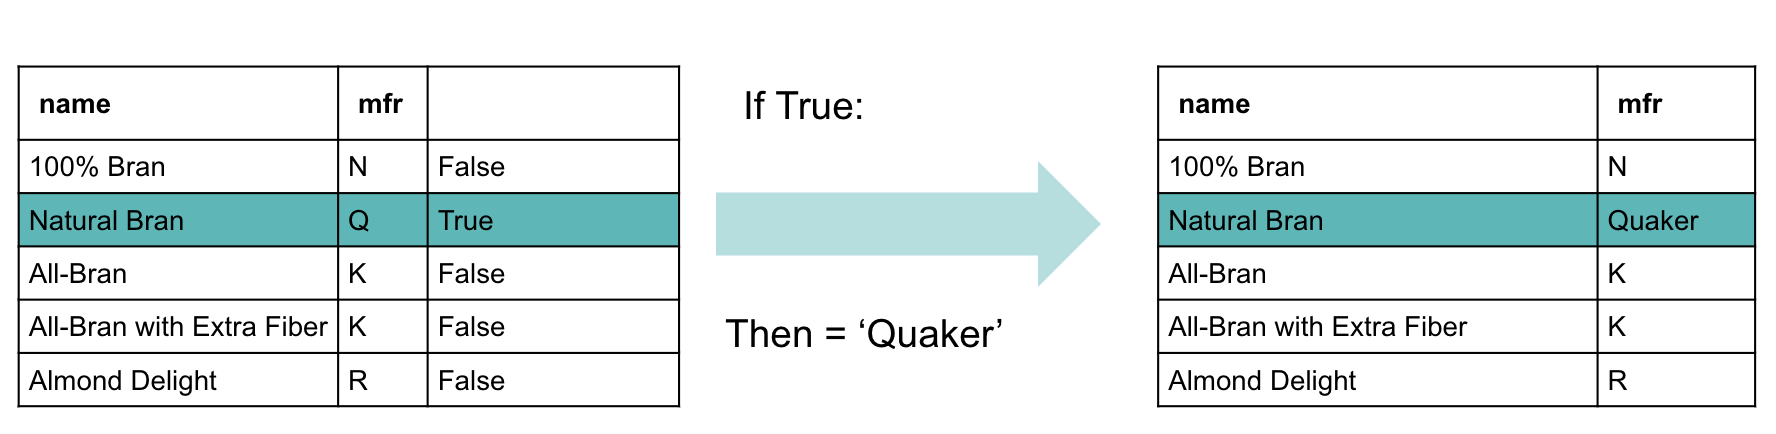
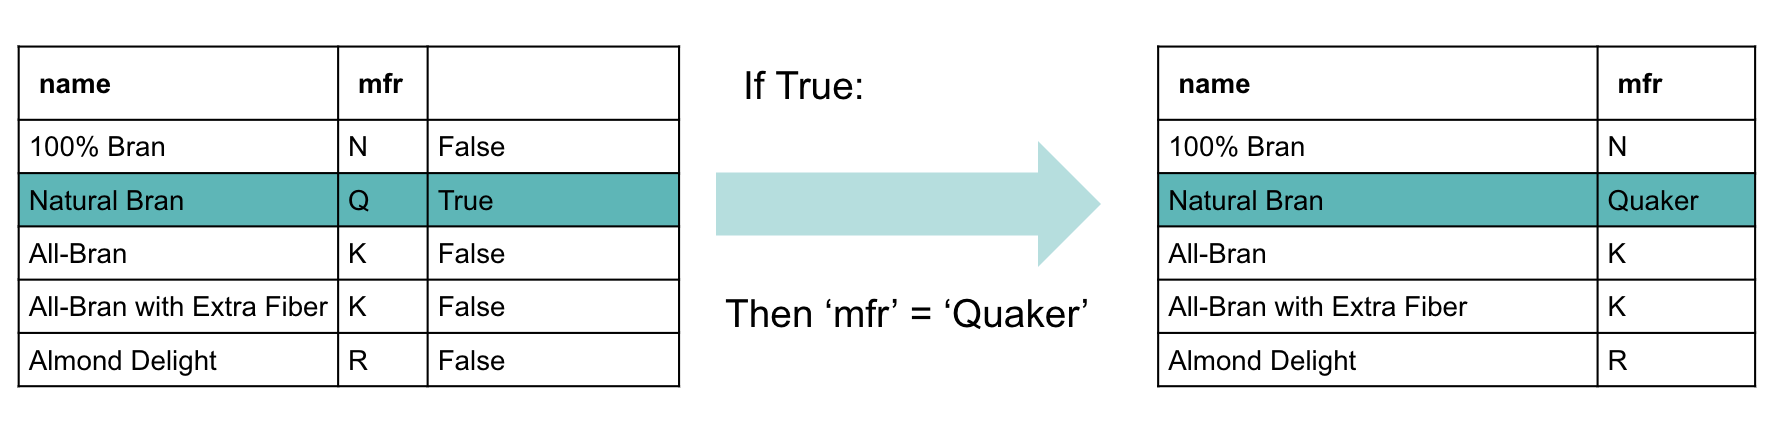
small edits

Changed region(s): [[0.0, 0.0911, 0.6194, 0.9416], [0.6503, 0.0911, 0.991, 0.9416]]

diff --git a/chapters/en/slides/module2/module2_19.md b/chapters/en/slides/module2/module2_19.md
@@ -22,8 +22,8 @@ Notes: Script here
 
 So far, we have accumulated many different skills to wrangle our data.
 One type of transformation that you may use often is replacing values
-within a column depending on a certain condition. Let’s start with a
-goal for a smaller version of our cereal dataset.
+within a column depending on a certain condition. Let’s bring in a
+smaller version of our cereal dataset.
 
 ``` python
 df = pd.read_csv('cereal.csv',
@@ -46,8 +46,8 @@ In the dataframe, the manufacturer value “Q” isn’t that informative and
 it might be easier to understand our data if we change all these values
 to something more complete like “Quaker”.
 
-This leads to our task: *_Replace the values with `mfr` equal to “Q”, to
-a new value of “Quaker”_*
+This leads to to our task:  
+***Replace the “Q” manufacturer values, with a new value of “Quaker”***
 
 Notes: Script here
 
@@ -63,10 +63,10 @@ Notes: Script here
 
 ---
 
-Our first instinct may be to first filter on those rows using the
-technique we learned in our last section. Perhaps you may have thought
-of assigning our new filtered selection with the new values with similar
-code to below:
+Our first instinct may be to first filter those rows using the technique
+we learned in our last section. From our new filtered selection, perhaps
+we could assign values of “Quaker” to column `mfr` using similar code to
+below:
 
 ``` python
 df[df['mfr'] == 'Q'].assign(mfr = 'Quaker')
@@ -85,14 +85,13 @@ Quaker Oat Squares  Quaker  Cold       100        4     1.0  49.511874
 Quaker Oatmeal      Quaker   Hot       100        5     1.0  50.828392
 ```
 
-That looks about right on what we want but what happened to the rest of
-our dataframe? Remember that we only want to replace the values in our
+That looks like it did what we want but what happened to the rest of our
+dataframe? Remember that we only want to replace the values in our
 existing dataframe and not create a new one.
 
 When we use the `.assign()` verb, it creates a new dataframe instead of
 altering the current one. This is problematic since we still want the
-original dataframe but with simply new values for a selection of our
-rows. This means we need to come up with a new method.
+original dataframe but with certain values updated. So what do we do?
 
 Notes: Script here
 
@@ -110,10 +109,9 @@ Notes: Script here
 
 # Building on more things we know
 
-Remember our friend `.loc[]`? We are going to get reacquainted with
-them. Similarly, to how `.loc[]` can select and return specified columns
-and rows of the dataframe, it can filter on conditions too.
-
+Remember our friend `.loc[]`? We are going to get reacquainted with it.
+Similarly, to how `.loc[]` can select and return specified columns and
+rows of the dataframe, it can filter on conditions too.  
 We are used to seeing code involving `.loc[]` like this:
 
 ``` python
@@ -167,9 +165,9 @@ Notes: Script here
 
 ---
 
-Some may now be asking, “Why don’t we do all our filtering like this
+Some people may be asking, “Why don’t we do all our filtering like this
 then?” Well, the answer is, you can, but we prefer not to. Filtering
-without loc is a bit more readable and more efficient when doing
+without `.loc[]` is a bit more readable and more efficient when doing
 analysis.
 
 Let’s concentrate back on our task of only replacing `mfr` values equal
@@ -291,6 +289,20 @@ Wheaties Honey Gold          False
 Name: mfr, Length: 77, dtype: bool
 ```
 
+Notes: Script here
+
+<html>
+
+<audio controls >
+
+<source src="/placeholder_audio.mp3" />
+
+</audio>
+
+</html>
+
+---
+
 Essentially our code is finding the rows with `True` values and
 replacing the values in the `mfr` column (like we specified) the new
 value of ‘Quaker’.
@@ -311,12 +323,33 @@ Notes: Script here
 
 ---
 
-You can split up how this code works into 2 steps:
+You can split up how this code works into 3 steps:
 
-1.  We use `.loc[]` to find the rows specifying certain conditions.  
-2.  Once we have obtained our desired rows (with a hidden column with
-    True/False values) we replace their values in either a specified
-    column.
+1.  We use `.loc[]` to find the rows specifying certain conditions.
+
+<!-- end list -->
+
+``` python
+df.loc[df['mfr'] == 'Q']
+```
+
+2.  We next indicate which column we wish to replace with the new values
+
+<!-- end list -->
+
+``` python
+df.loc[df['mfr'] == 'Q', 'mfr'] 
+```
+
+3.  Once we have obtained our desired rows and the column which we are
+    editing, we assign a value to the row meeting the condition ( a
+    “True” value)
+
+<!-- end list -->
+
+``` python
+df.loc[df['mfr'] == 'Q', 'mfr'] = 'Quaker'
+```
 
 Notes: Script here
 
@@ -343,7 +376,8 @@ TypeError: 'Series' objects are mutable, thus they cannot be hashed
 ```
 
 Unfortunately, we are not able to replace values in this manner and it
-results in an error.
+results in an error since filtering this way does not allow us to
+specify columns like this.
 
 Notes: Script here
 
@@ -399,10 +433,45 @@ Notes: Script here
 
 ---
 
+Let’s take a look at the dataframe now:
+
+``` python
+df.head(10)
+```
+
+```out
+                              mfr  type  calories  protein  weight     rating protein_level
+name                                                                                       
+100% Bran                       N  Cold        70        4    1.00  68.402973          high
+100% Natural Bran          Quaker  Cold       120        3    1.00  33.983679          high
+All-Bran                        K  Cold        70        4    1.00  59.425505          high
+All-Bran with Extra Fiber       K  Cold        50        4    1.00  93.704912          high
+Almond Delight                  R  Cold       110        2    1.00  34.384843           low
+Apple Cinnamon Cheerios         G  Cold       110        2    1.00  29.509541           low
+Apple Jacks                     K  Cold       110        2    1.00  33.174094           low
+Basic 4                         G  Cold       130        3    1.33  37.038562          high
+Bran Chex                       R  Cold        90        2    1.00  49.120253           low
+Bran Flakes                     P  Cold        90        3    1.00  53.313813          high
+```
+
+Notes: Script here
+
+<html>
+
+<audio controls >
+
+<source src="/placeholder_audio.mp3" />
+
+</audio>
+
+</html>
+
+---
+
 ## Creating new columns
 
 You may have noticed we did not use `.assign()` to create our new
-column. That’s because as we mentioned earlier when we use `.assign()`
+column. That’s because as we mentioned earlier, when we use `.assign()`
 it creates a brand new dataframe. When we are replacing values, we don’t
 want a new dataframe and instead, we just want to alter the current
 values in the existing dataframe.
@@ -432,7 +501,7 @@ new one. We prefer `.assign()` where possible since it provides more
 flexibility. It gives us an opportunity to name the new dataframe
 something different and keep our original dataframe untransformed. This
 prevents the need to re-read in our data to get our original dataframe
-back (which could take time depending on the size).
+back (which could take a long time if the dataset is large).
 
 Notes: Script here
 
